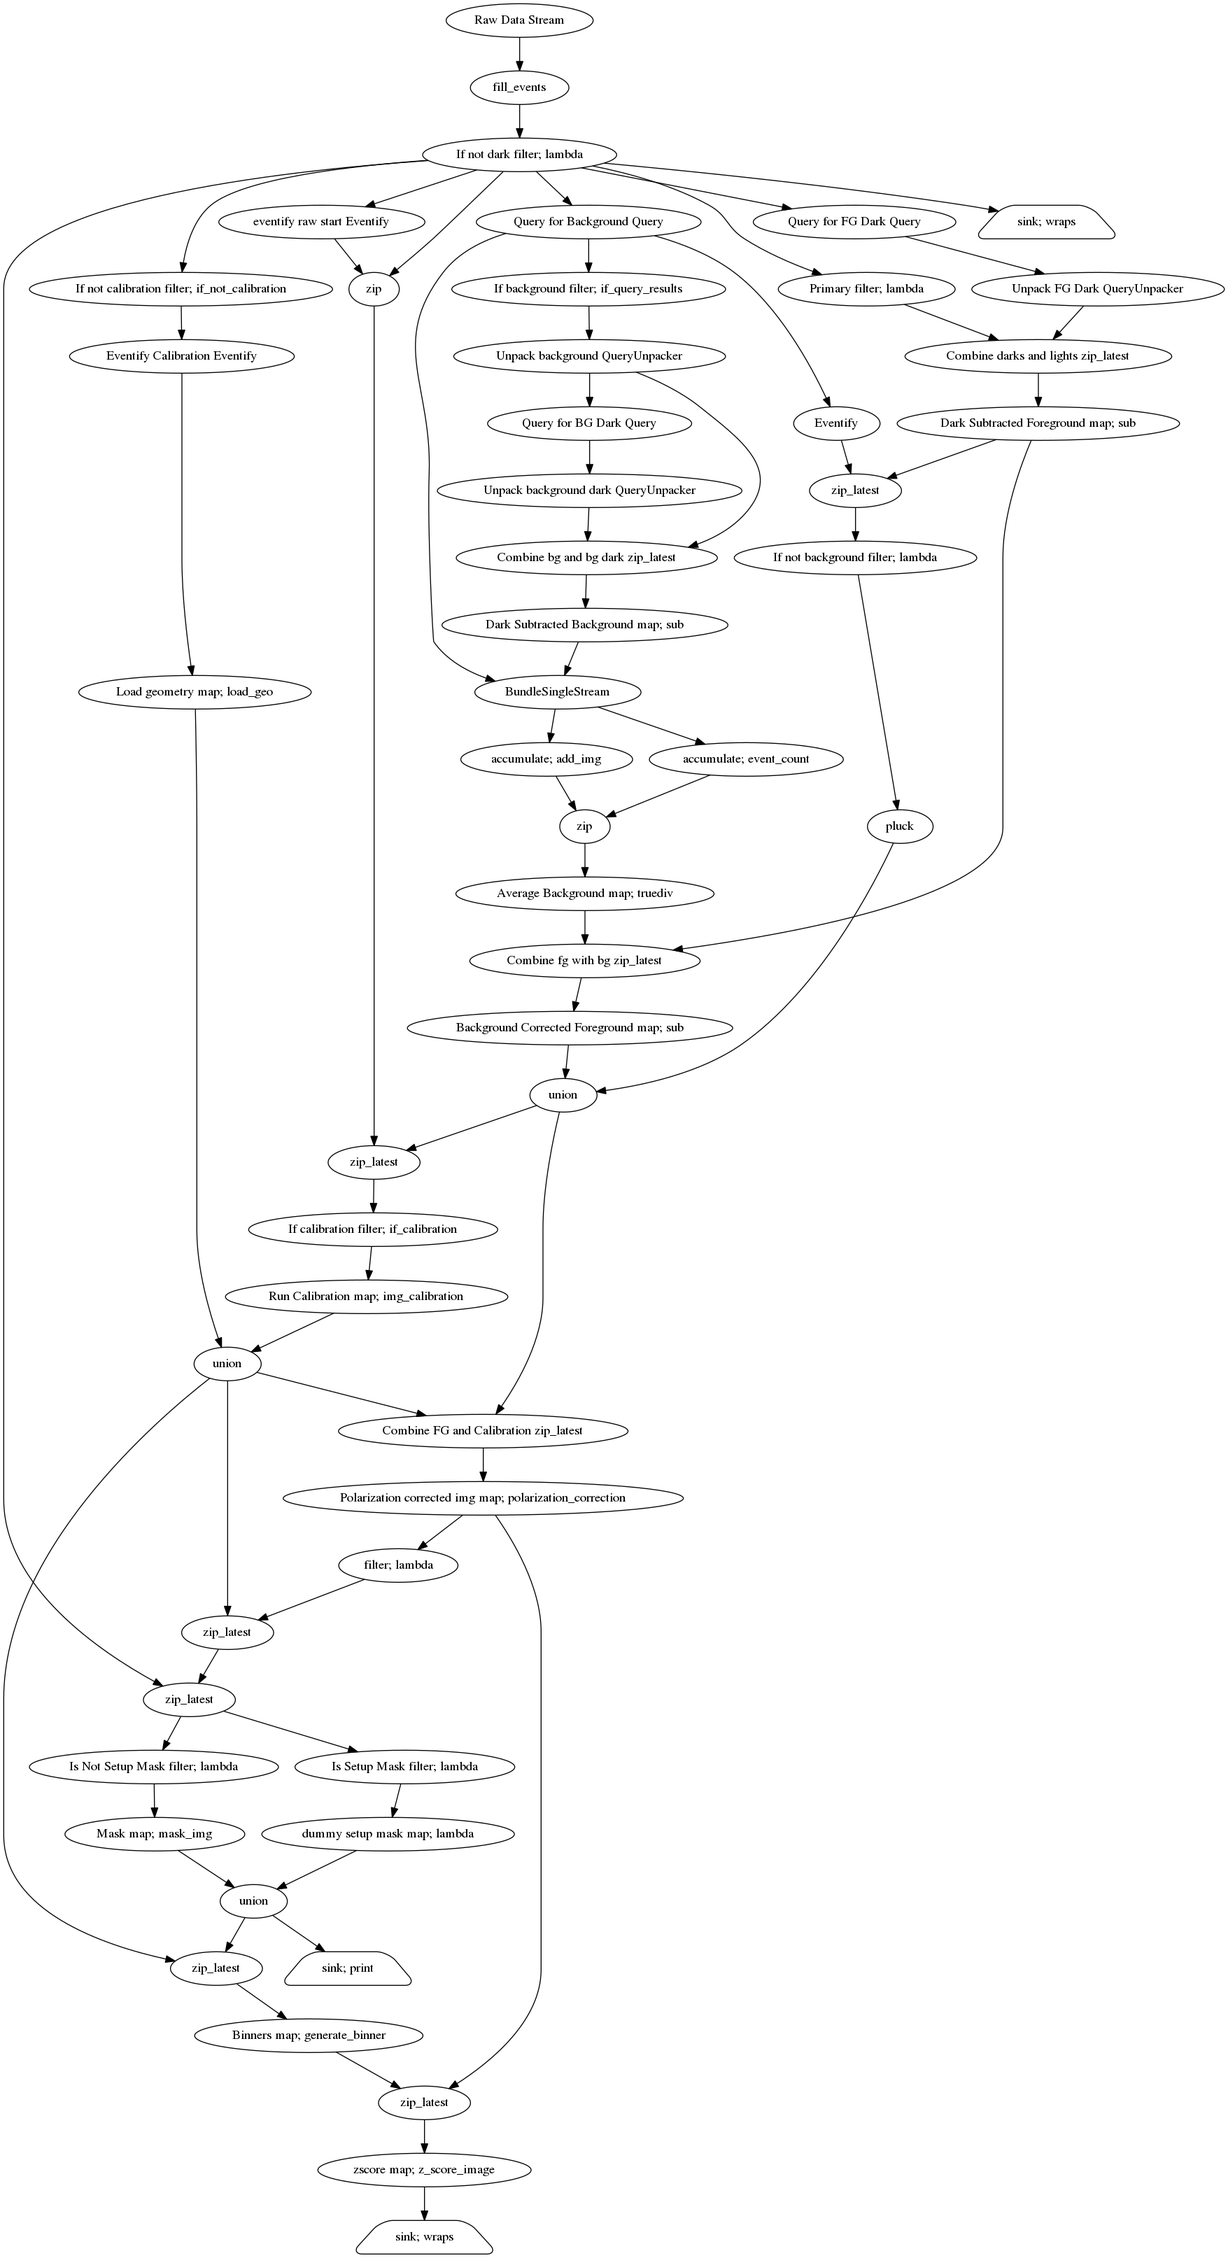
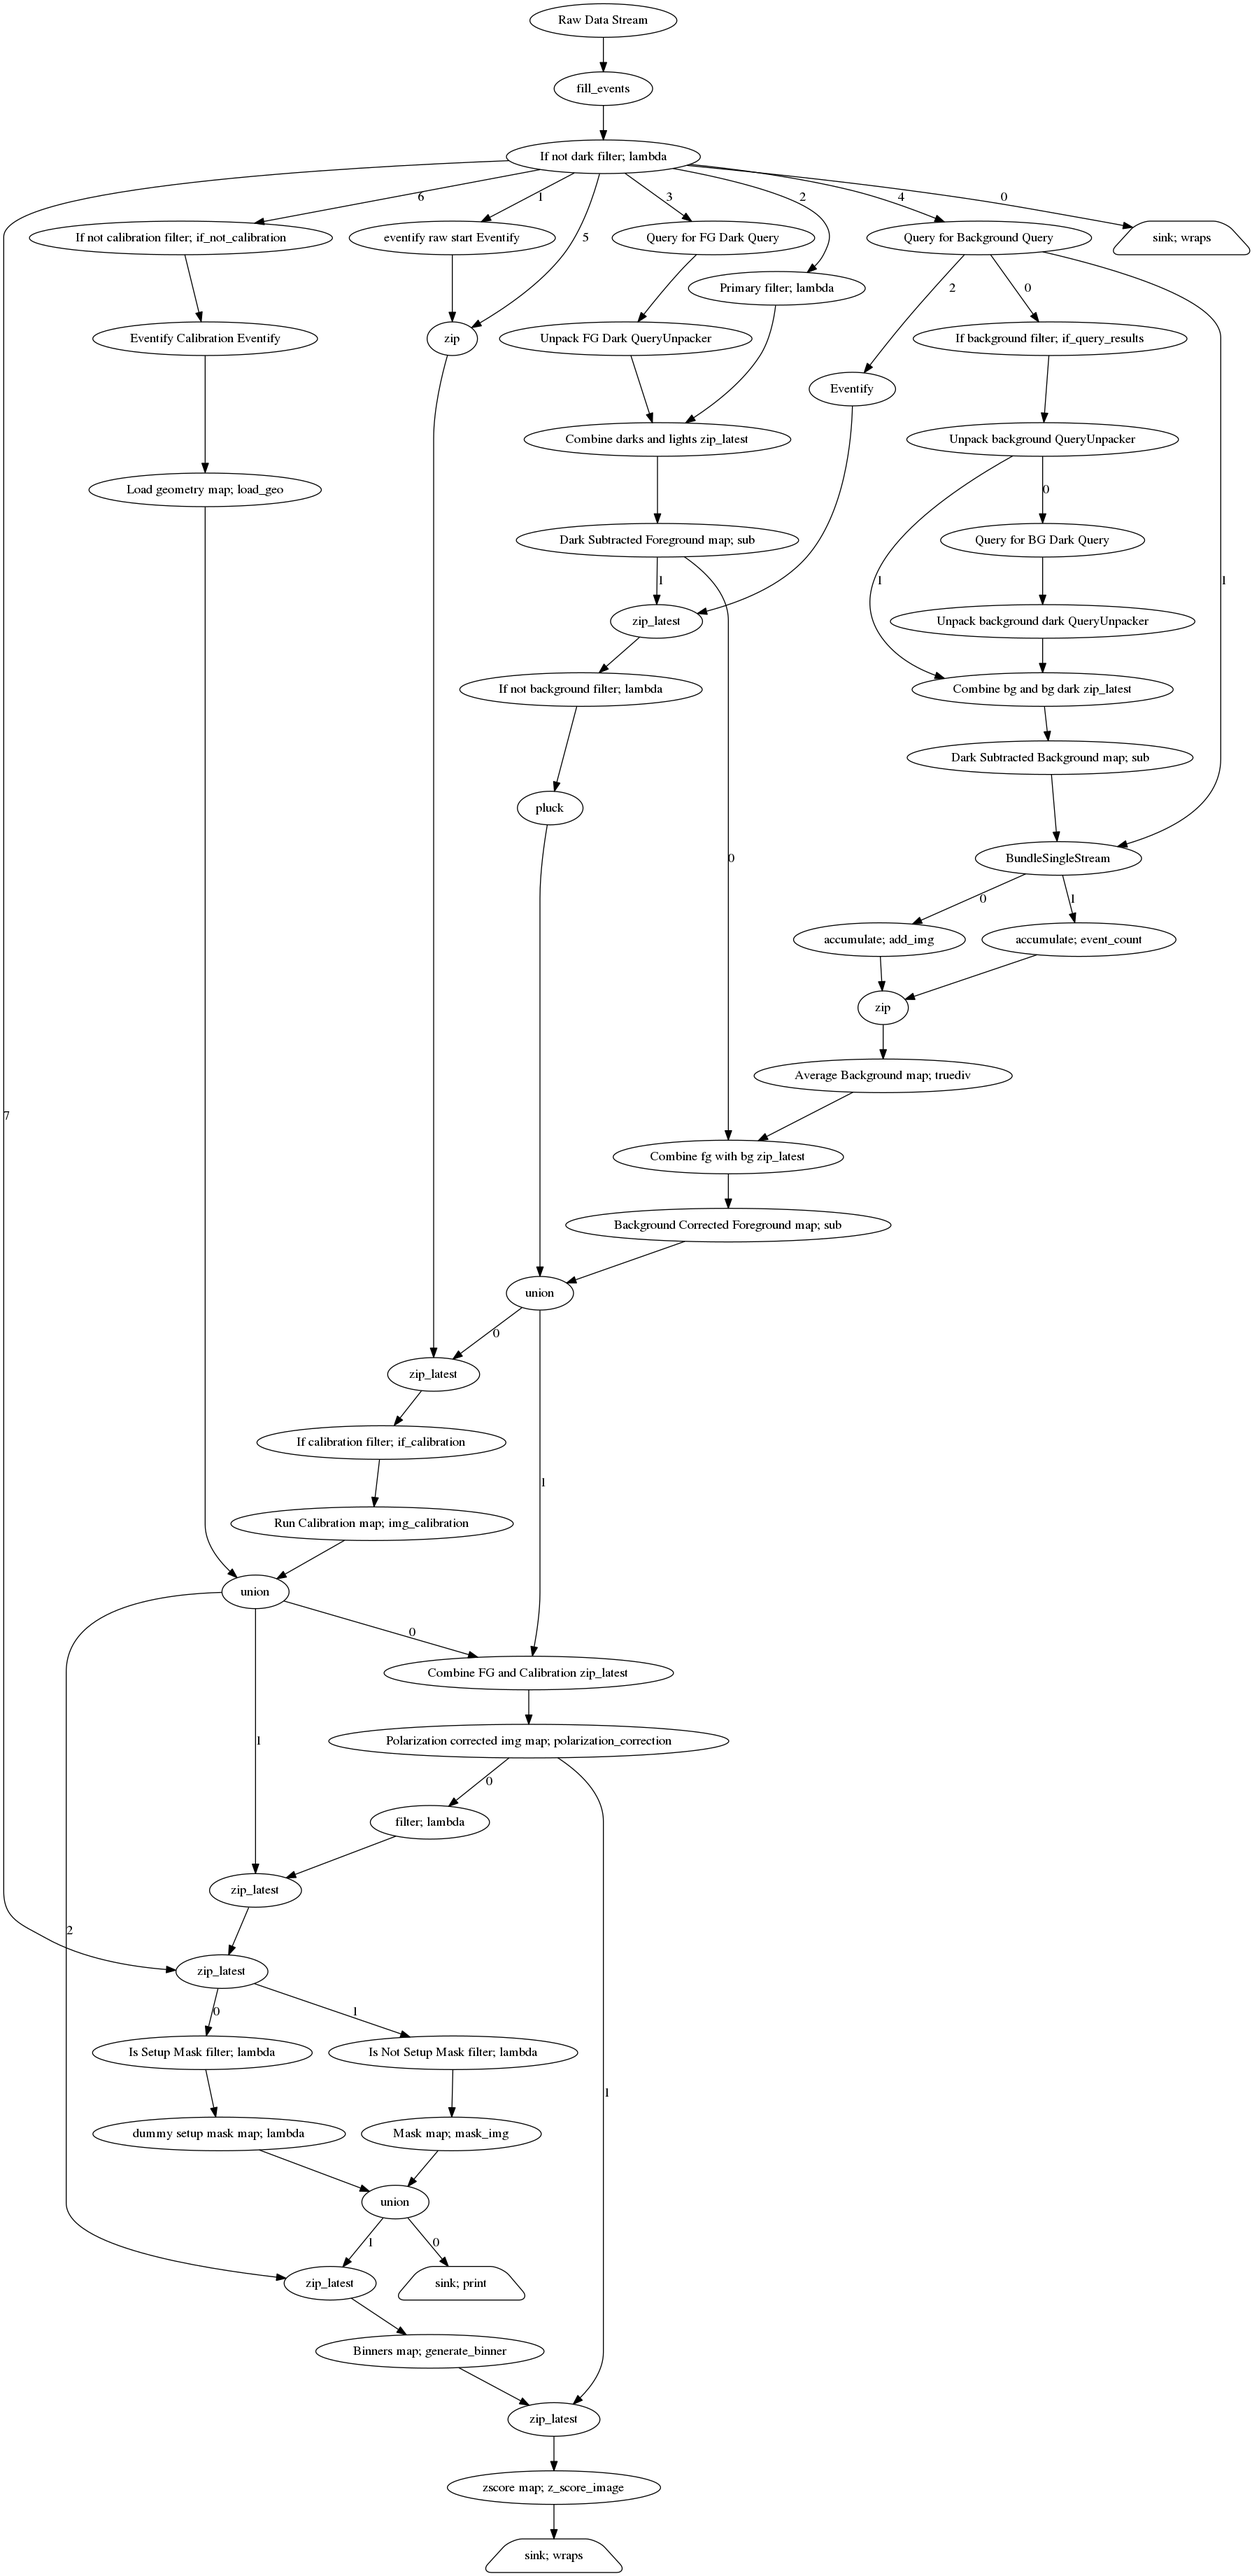
ENH: add more rever activities

diff --git a/setup.py b/setup.py
@@ -1,21 +1,9 @@
-import ast
 from setuptools import setup, find_packages
 
 
-def find_version(filename):
-    with open(filename) as f:
-        initlines = f.readlines()
-    version_line = None
-    for line in initlines:
-        if line.startswith('__version__'):
-            vstr = line.strip().split()[-1]
-            ver = ast.literal_eval(vstr)
-            break
-    return ver
-
 setup(
     name='xpdan',
-    version=find_version('xpdan/__init__.py'),
+    version='0.2.0',
     packages=find_packages(),
     description='data processing module',
     zip_safe=False,

diff --git a/examples/run_main.py b/examples/run_main.py
@@ -33,8 +33,9 @@ source = conf_main_pipeline(db, td.name,
                             # mask_setting='auto'
                             # verbose=True
                             )
-source.visualize()
-# '''
+source.visualize(source_node=True)
+# source.visualize(source_node=False)
+'''
 for hdr in list((db[-1], )):
     for e in hdr.documents():
         if e[0] == 'start':
